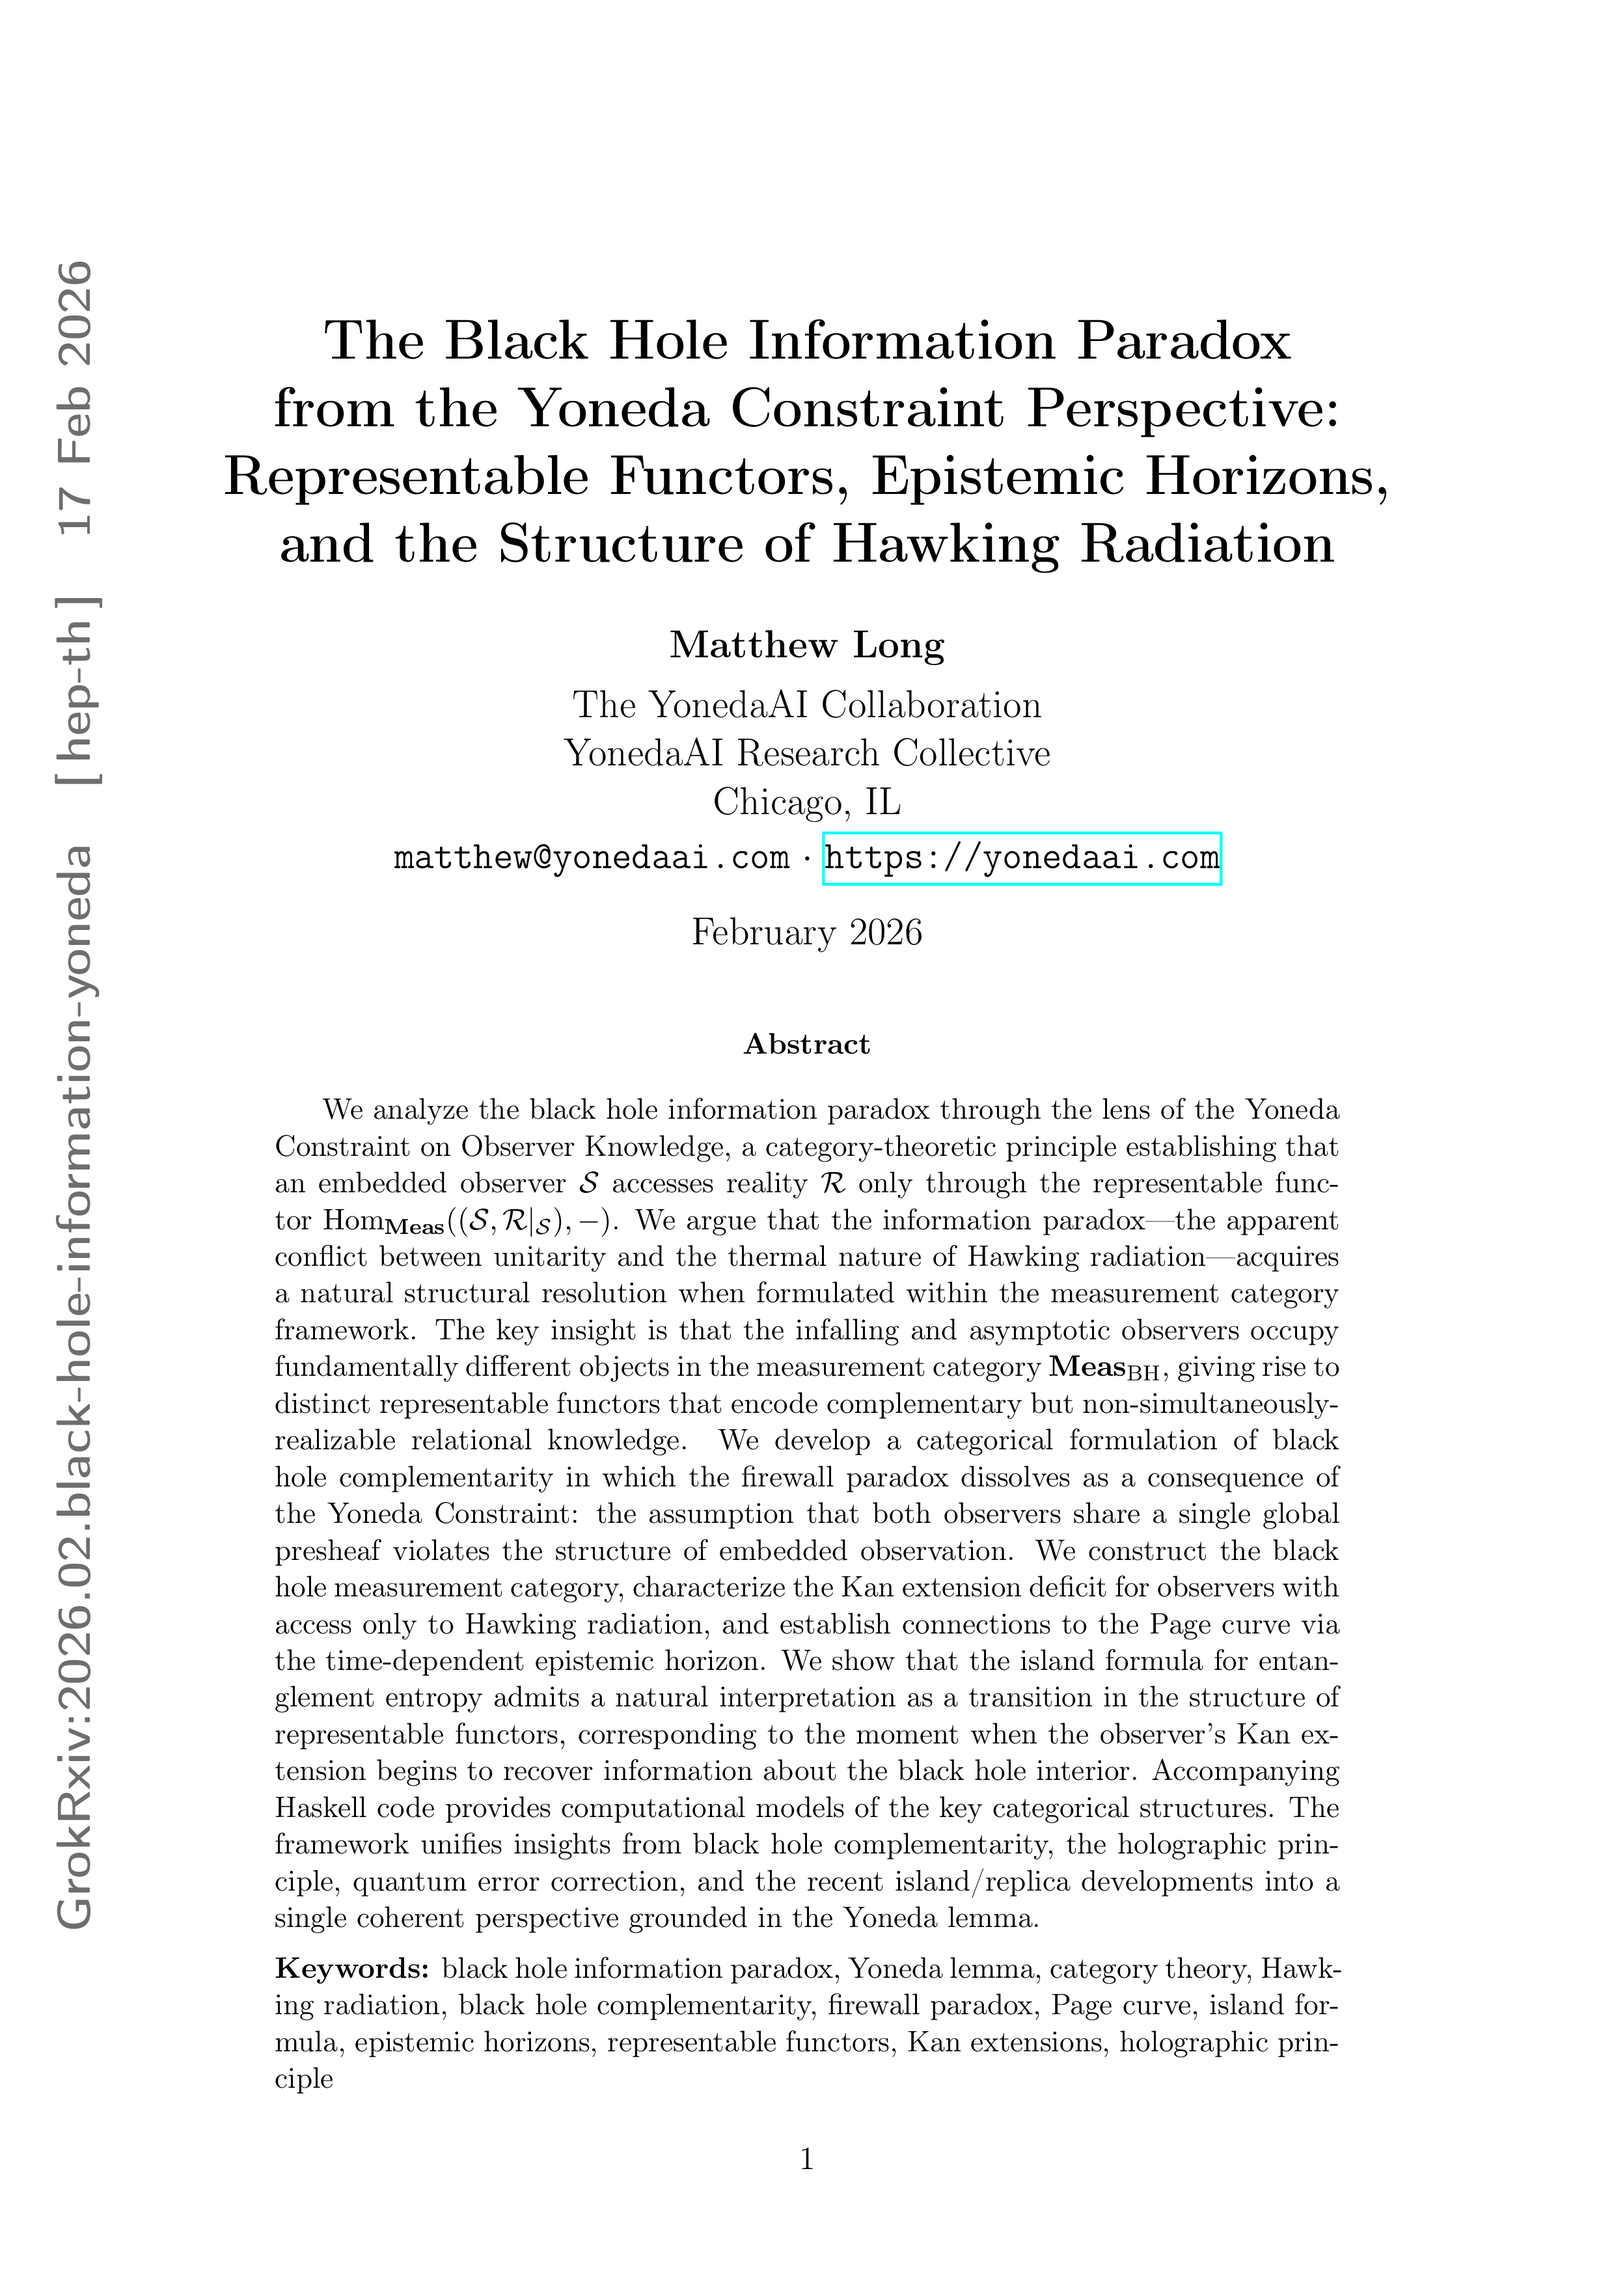
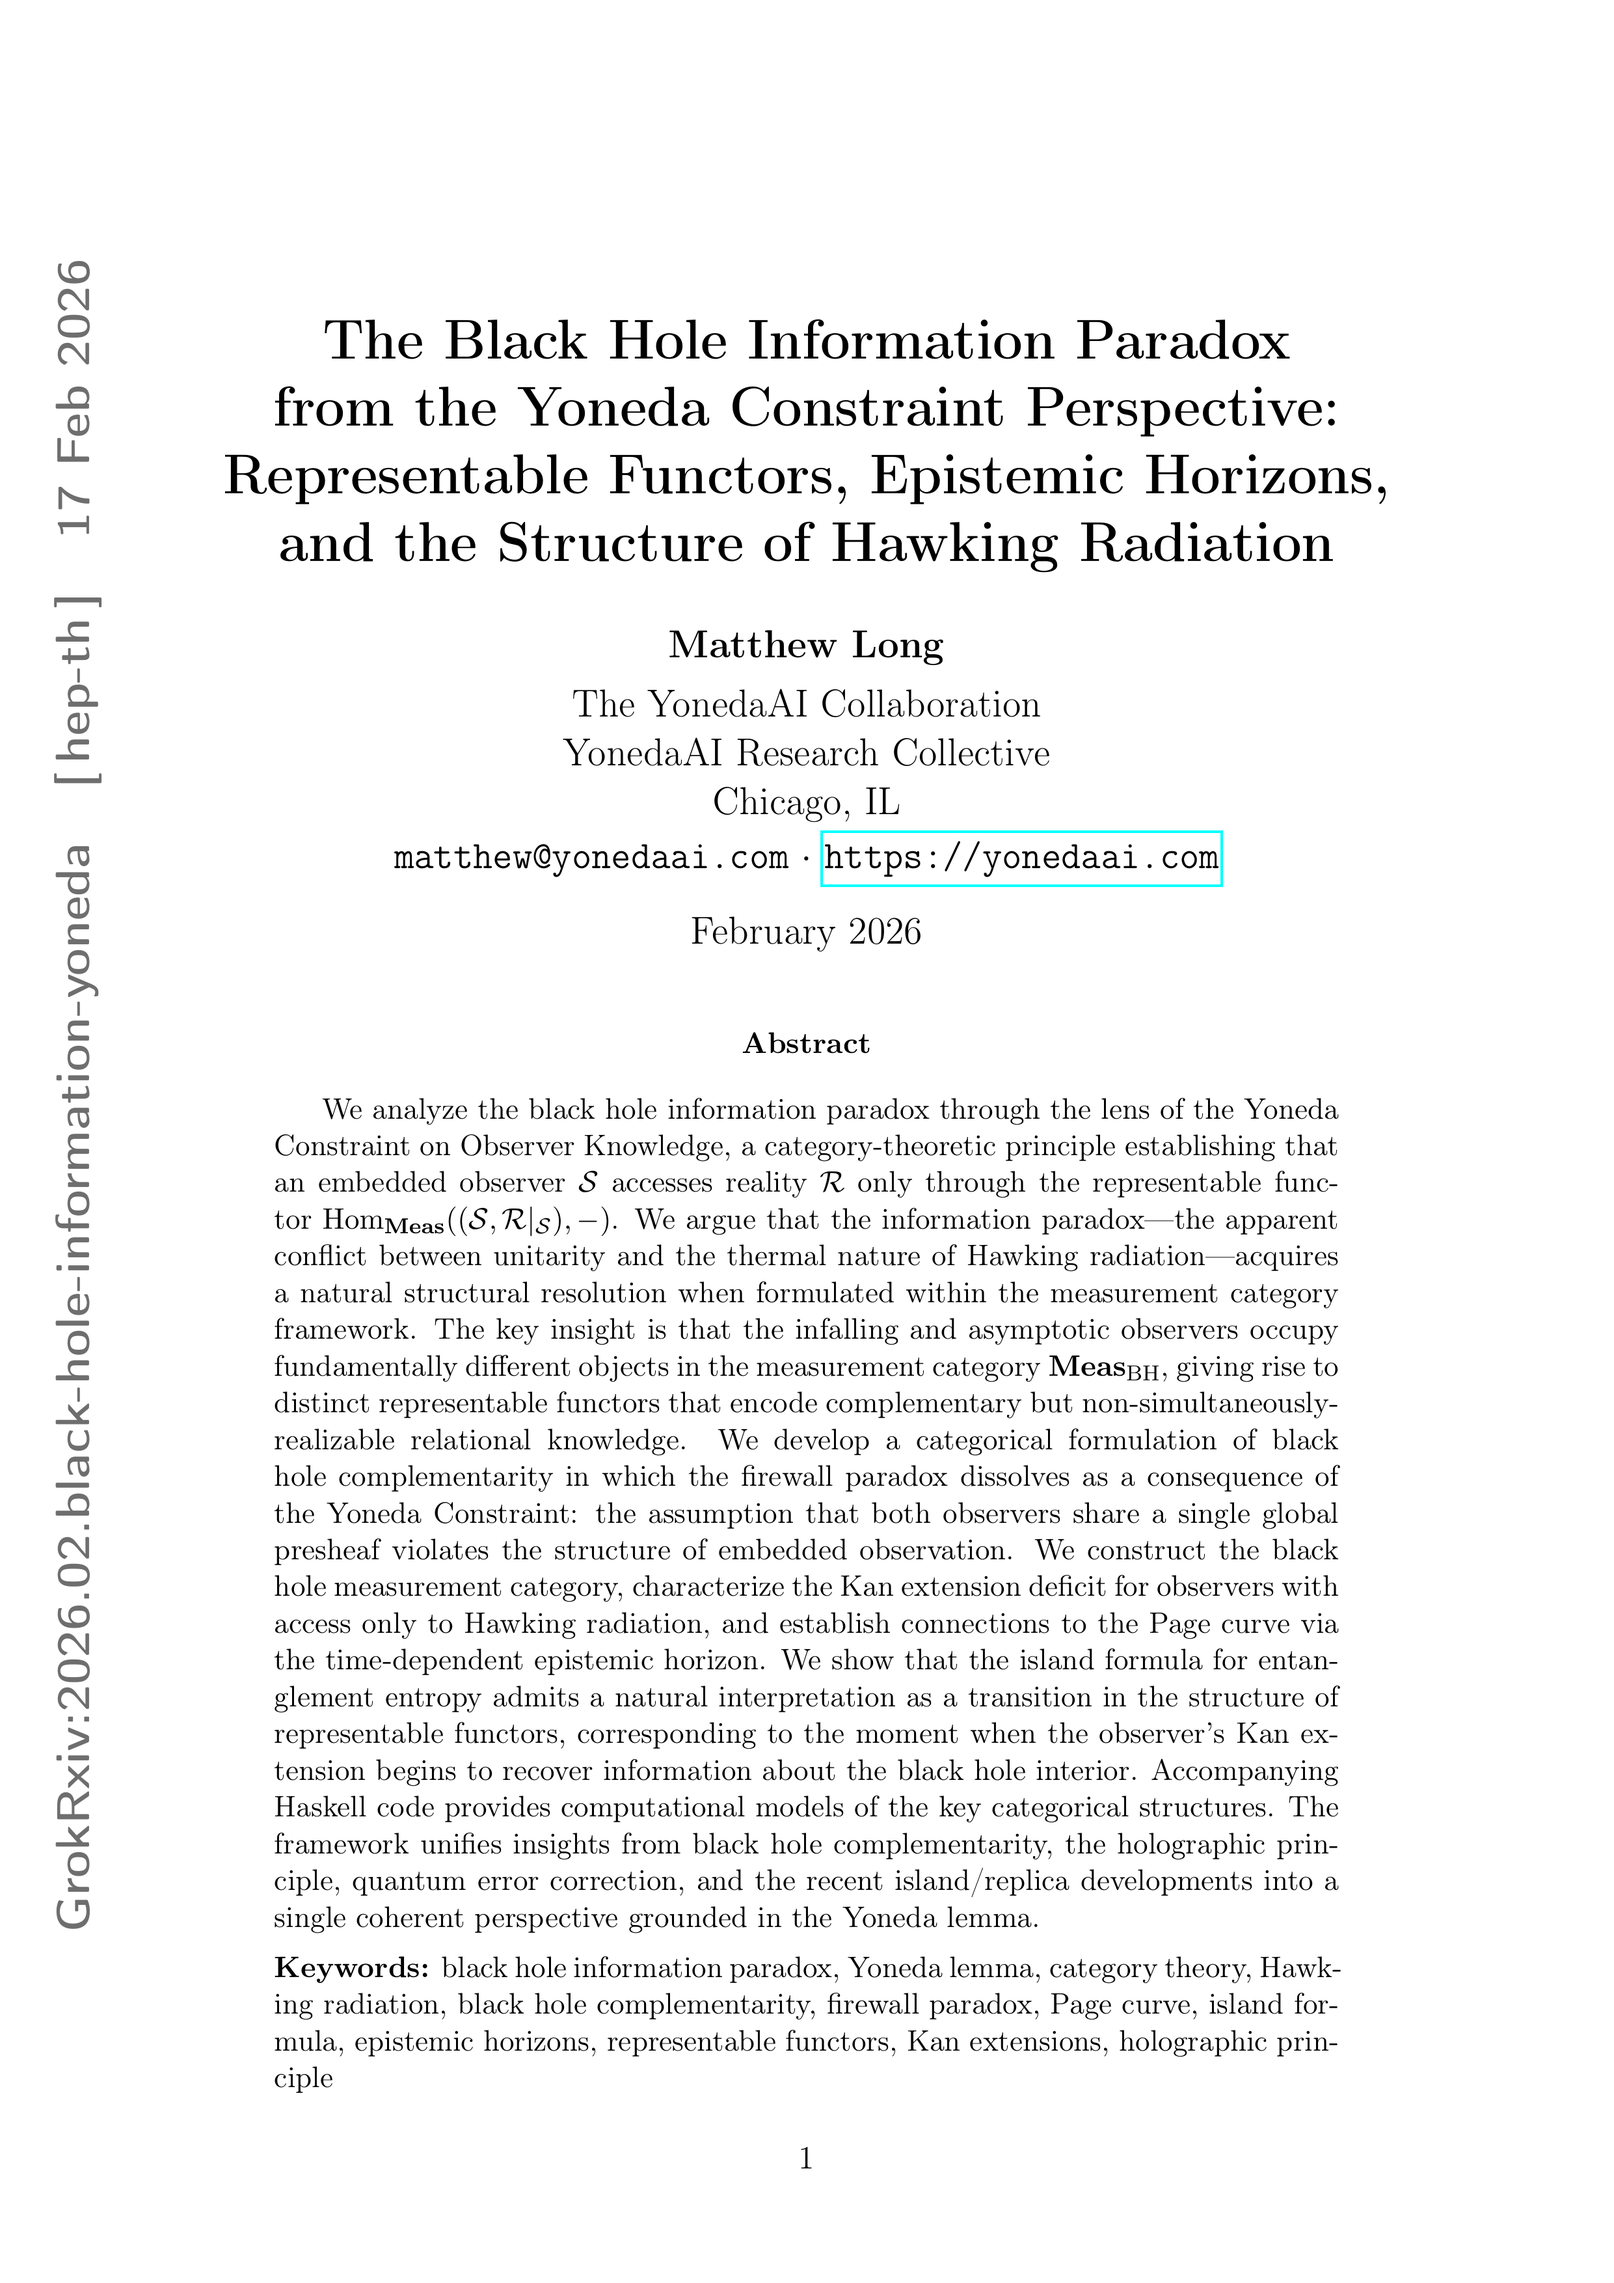
Fix cover images: re-render with pdftoppm
ImageMagick produced black pages on macOS. Switched to pdftoppm (poppler)
for proper PDF-to-PNG rendering at 300 DPI. Updated execution plan.

diff --git a/agent-execution-plan.md b/agent-execution-plan.md
@@ -140,13 +140,9 @@ rm -f *.aux *.log *.toc *.out *.bbl *.blg *.nav *.snm *.vrb *.fls *.fdb_latexmk 
 
 ```bash
 mkdir -p images
-# Using sips (macOS) via PDF→PNG conversion, or magick/convert if available
-magick -density 300 "papers/pdf/$SUBJECT.pdf[0]" -quality 95 "images/$SUBJECT.png"
-
-# Fallback if ImageMagick not available:
-sips -s format png --resampleWidth 2400 "papers/pdf/$SUBJECT.pdf" --out "images/$SUBJECT.png" 2>/dev/null \
-  || pdftoppm -png -f 1 -l 1 -r 300 "papers/pdf/$SUBJECT.pdf" "images/$SUBJECT" \
-  && mv "images/$SUBJECT-1.png" "images/$SUBJECT.png" 2>/dev/null
+# Use pdftoppm (poppler) — ImageMagick produces black pages on macOS
+pdftoppm -png -f 1 -l 1 -r 300 "papers/pdf/$SUBJECT.pdf" "images/$SUBJECT"
+mv "images/$SUBJECT-1.png" "images/$SUBJECT.png"
 ```
 
 **Rules**:
